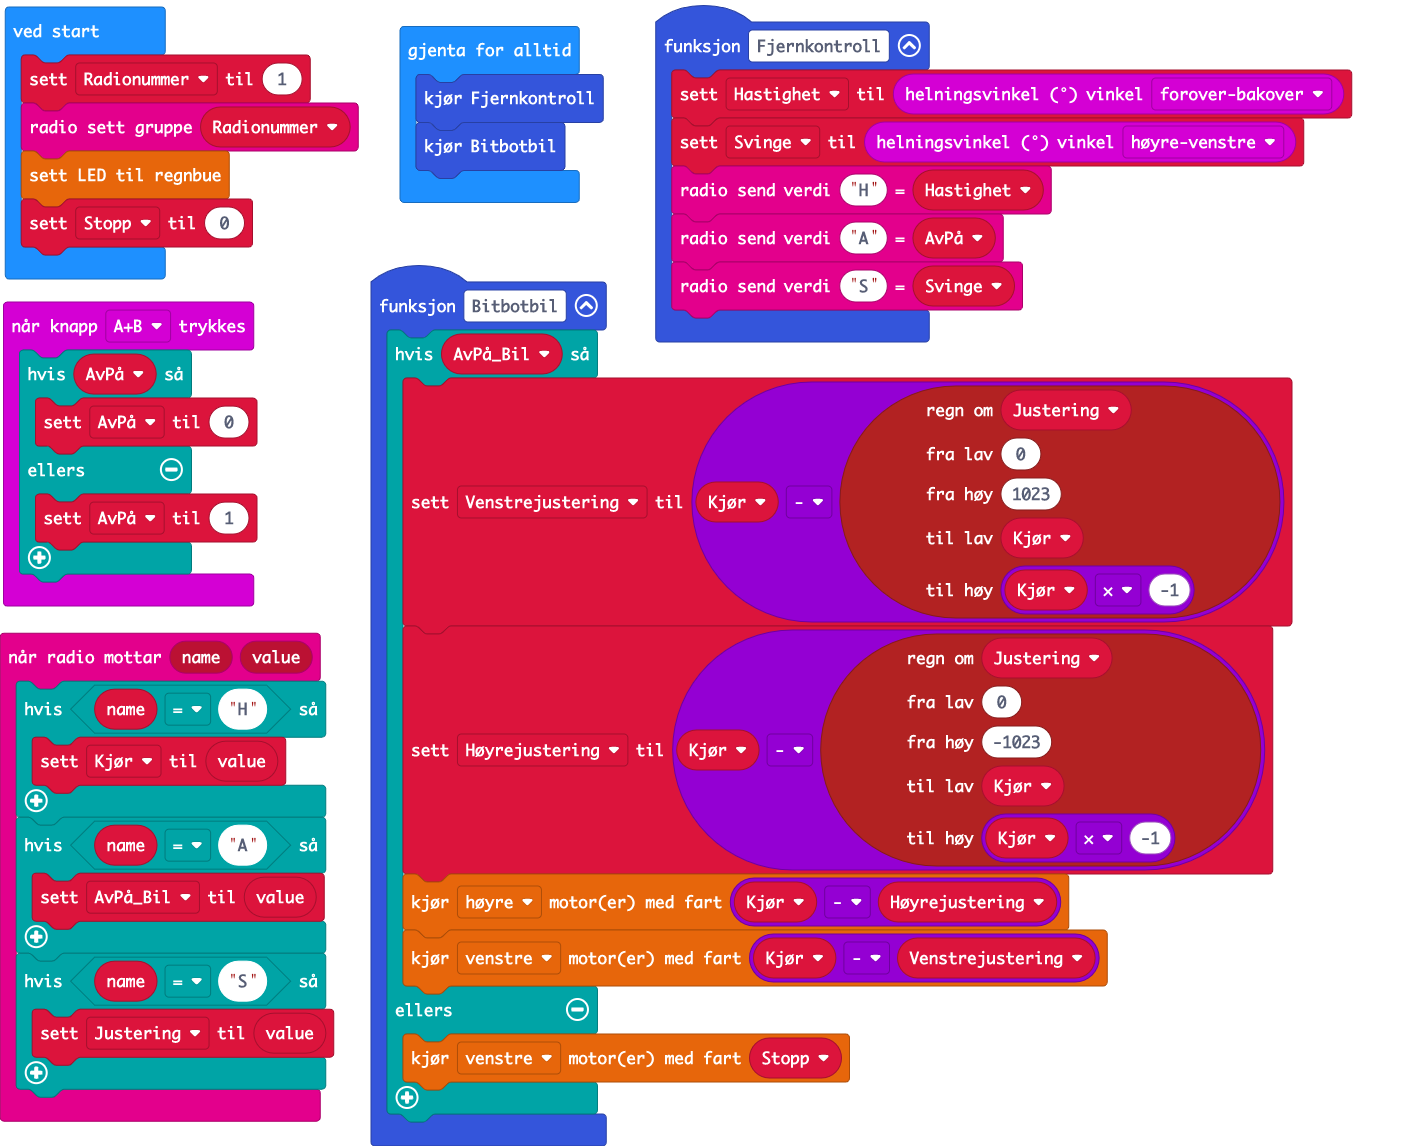
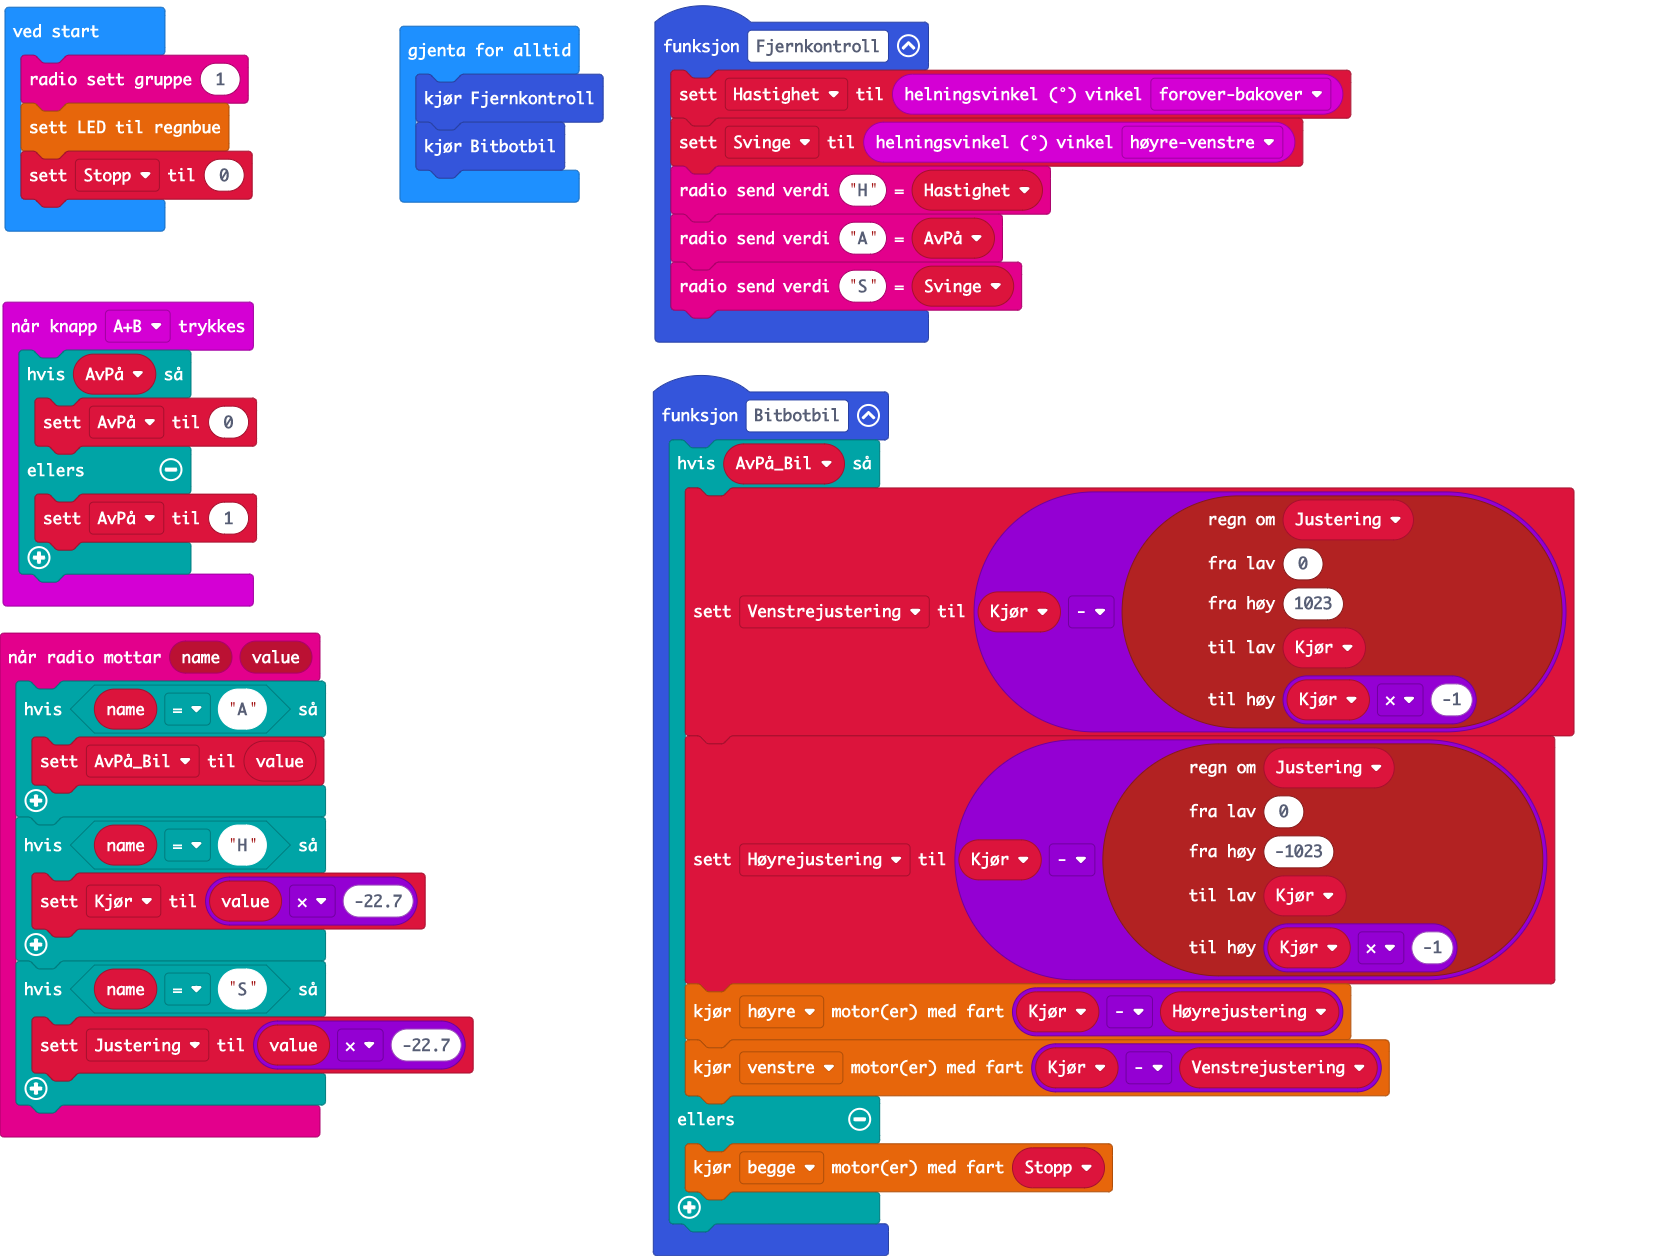
Oppdater pxt.json, main.blocks, main.ts

diff --git a/main.ts b/main.ts
@@ -24,7 +24,7 @@ function Bitbotbil () {
         bitbot.motor(BBMotor.Right, Kjør - Høyrejustering)
         bitbot.motor(BBMotor.Left, Kjør - Venstrejustering)
     } else {
-        bitbot.motor(BBMotor.Left, Stopp)
+        bitbot.motor(BBMotor.Both, Stopp)
     }
 }
 input.onButtonPressed(Button.AB, function () {
@@ -35,14 +35,14 @@ input.onButtonPressed(Button.AB, function () {
     }
 })
 radio.onReceivedValue(function (name, value) {
-    if (name == "H") {
-        Kjør = value
-    }
     if (name == "A") {
         AvPå_Bil = value
     }
+    if (name == "H") {
+        Kjør = value * -22.7
+    }
     if (name == "S") {
-        Justering = value
+        Justering = value * -22.7
     }
 })
 let Høyrejustering = 0
@@ -54,8 +54,7 @@ let AvPå = 0
 let Svinge = 0
 let Hastighet = 0
 let Stopp = 0
-let Radionummer = 1
-radio.setGroup(Radionummer)
+radio.setGroup(1)
 bitbot.ledRainbow()
 Stopp = 0
 basic.forever(function () {
